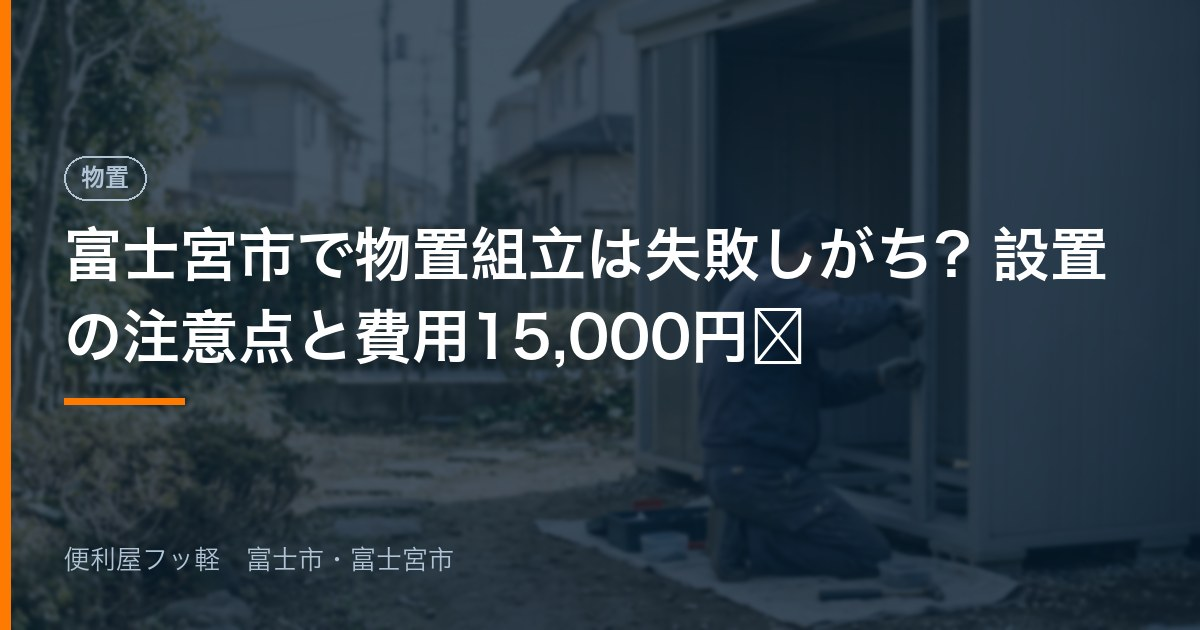
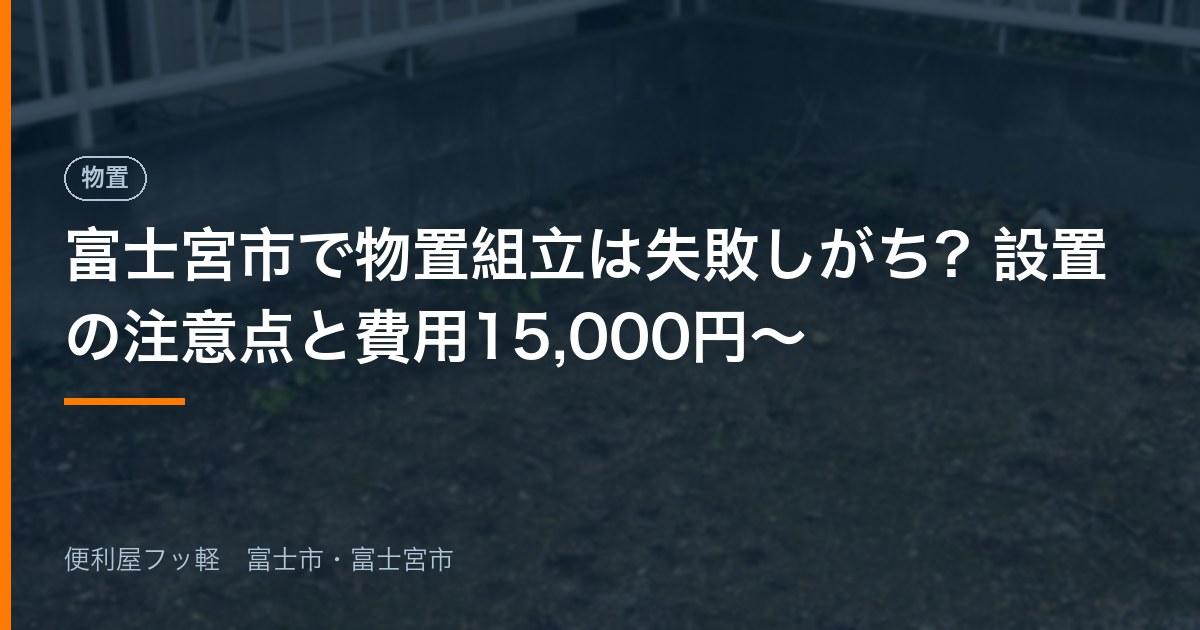
記事16本の見出しを実物の写真にする／og画像の「〜」が豆腐だったのを直す
■ 見出し画像
AIの絵から、実物の作業写真に差し替えた。
 家具組立6本 … 組み上がったベッド／ロフトベッド2種
 物置6本   … 設置前の地面／作業中／設置完了
 草刈り・庭まわり … 草刈り後／剪定後
 不用品の運搬 … 洗濯機の積み込み
 水まわり  … 汚水枡の洗浄後
1枚ずつ原寸で見て、顔・表札・ナンバーが無いことを確かめた。

■ og画像の「〜」が □ になっていた
Hiragino Sans GB は U+301C（WAVE DASH「〜」）を持っていない。
記事の題はほとんど「8,000円〜」なので、**SNS用の絵11本が豆腐だった。**
getmask().getbbox() は空でない値を返すので、それだけでは見つからない。
実際に描いて見て気づいた。

絵に描くときだけ U+301C → U+FF5E（～）に差し替える（記事の本文は触らない）。
heroimg.py は2つあるので両方に入れた。

diff --git a/scripts/blog/heroimg.py b/scripts/blog/heroimg.py
@@ -53,6 +53,18 @@ PAD = 64
 NAME = "便利屋フッ軽　富士市・富士宮市"
 
 
+# ── フォントに無い字を、見た目の同じ字に置き換える（2026-09-04）──
+# 「〜」(U+301C WAVE DASH) は Hiragino Sans GB が持っておらず、**□ で出ます。**
+# 記事の題はほとんど「8,000円〜」なので、og画像の11本が豆腐になっていました。
+# 記事の本文は触りません。**絵に描くときだけ**差し替えます。
+SAFE = {"\u301c": "\uff5e"}   # 〜 → ～
+
+
+def font_safe(t: str) -> str:
+    for a, b in SAFE.items():
+        t = t.replace(a, b)
+    return t
+
 def font(size: int, bold: bool = True) -> ImageFont.FreeTypeFont:
     return ImageFont.truetype(FONT_BOLD if bold else FONT, size,
                              index=W6 if bold else W3)
@@ -104,6 +116,8 @@ def wrap(text: str, f: ImageFont.FreeTypeFont, width: int) -> list[str]:
 def make_hero(out_path: Path, title: str, category: str = "",
               bg_path: Path | None = None) -> Path:
     """記事のトップ画像を1枚作って、置いた場所を返す。"""
+    title = font_safe(title)
+    category = font_safe(category)
     # 記事ページの見出しに敷く絵。ページ側でも暗い幕をかけるので、ここでは薄くしか暗くしない。
     # 文字は載せない（ページに題があるので、二重に見えてしまう）。
     out_path.parent.mkdir(parents=True, exist_ok=True)
